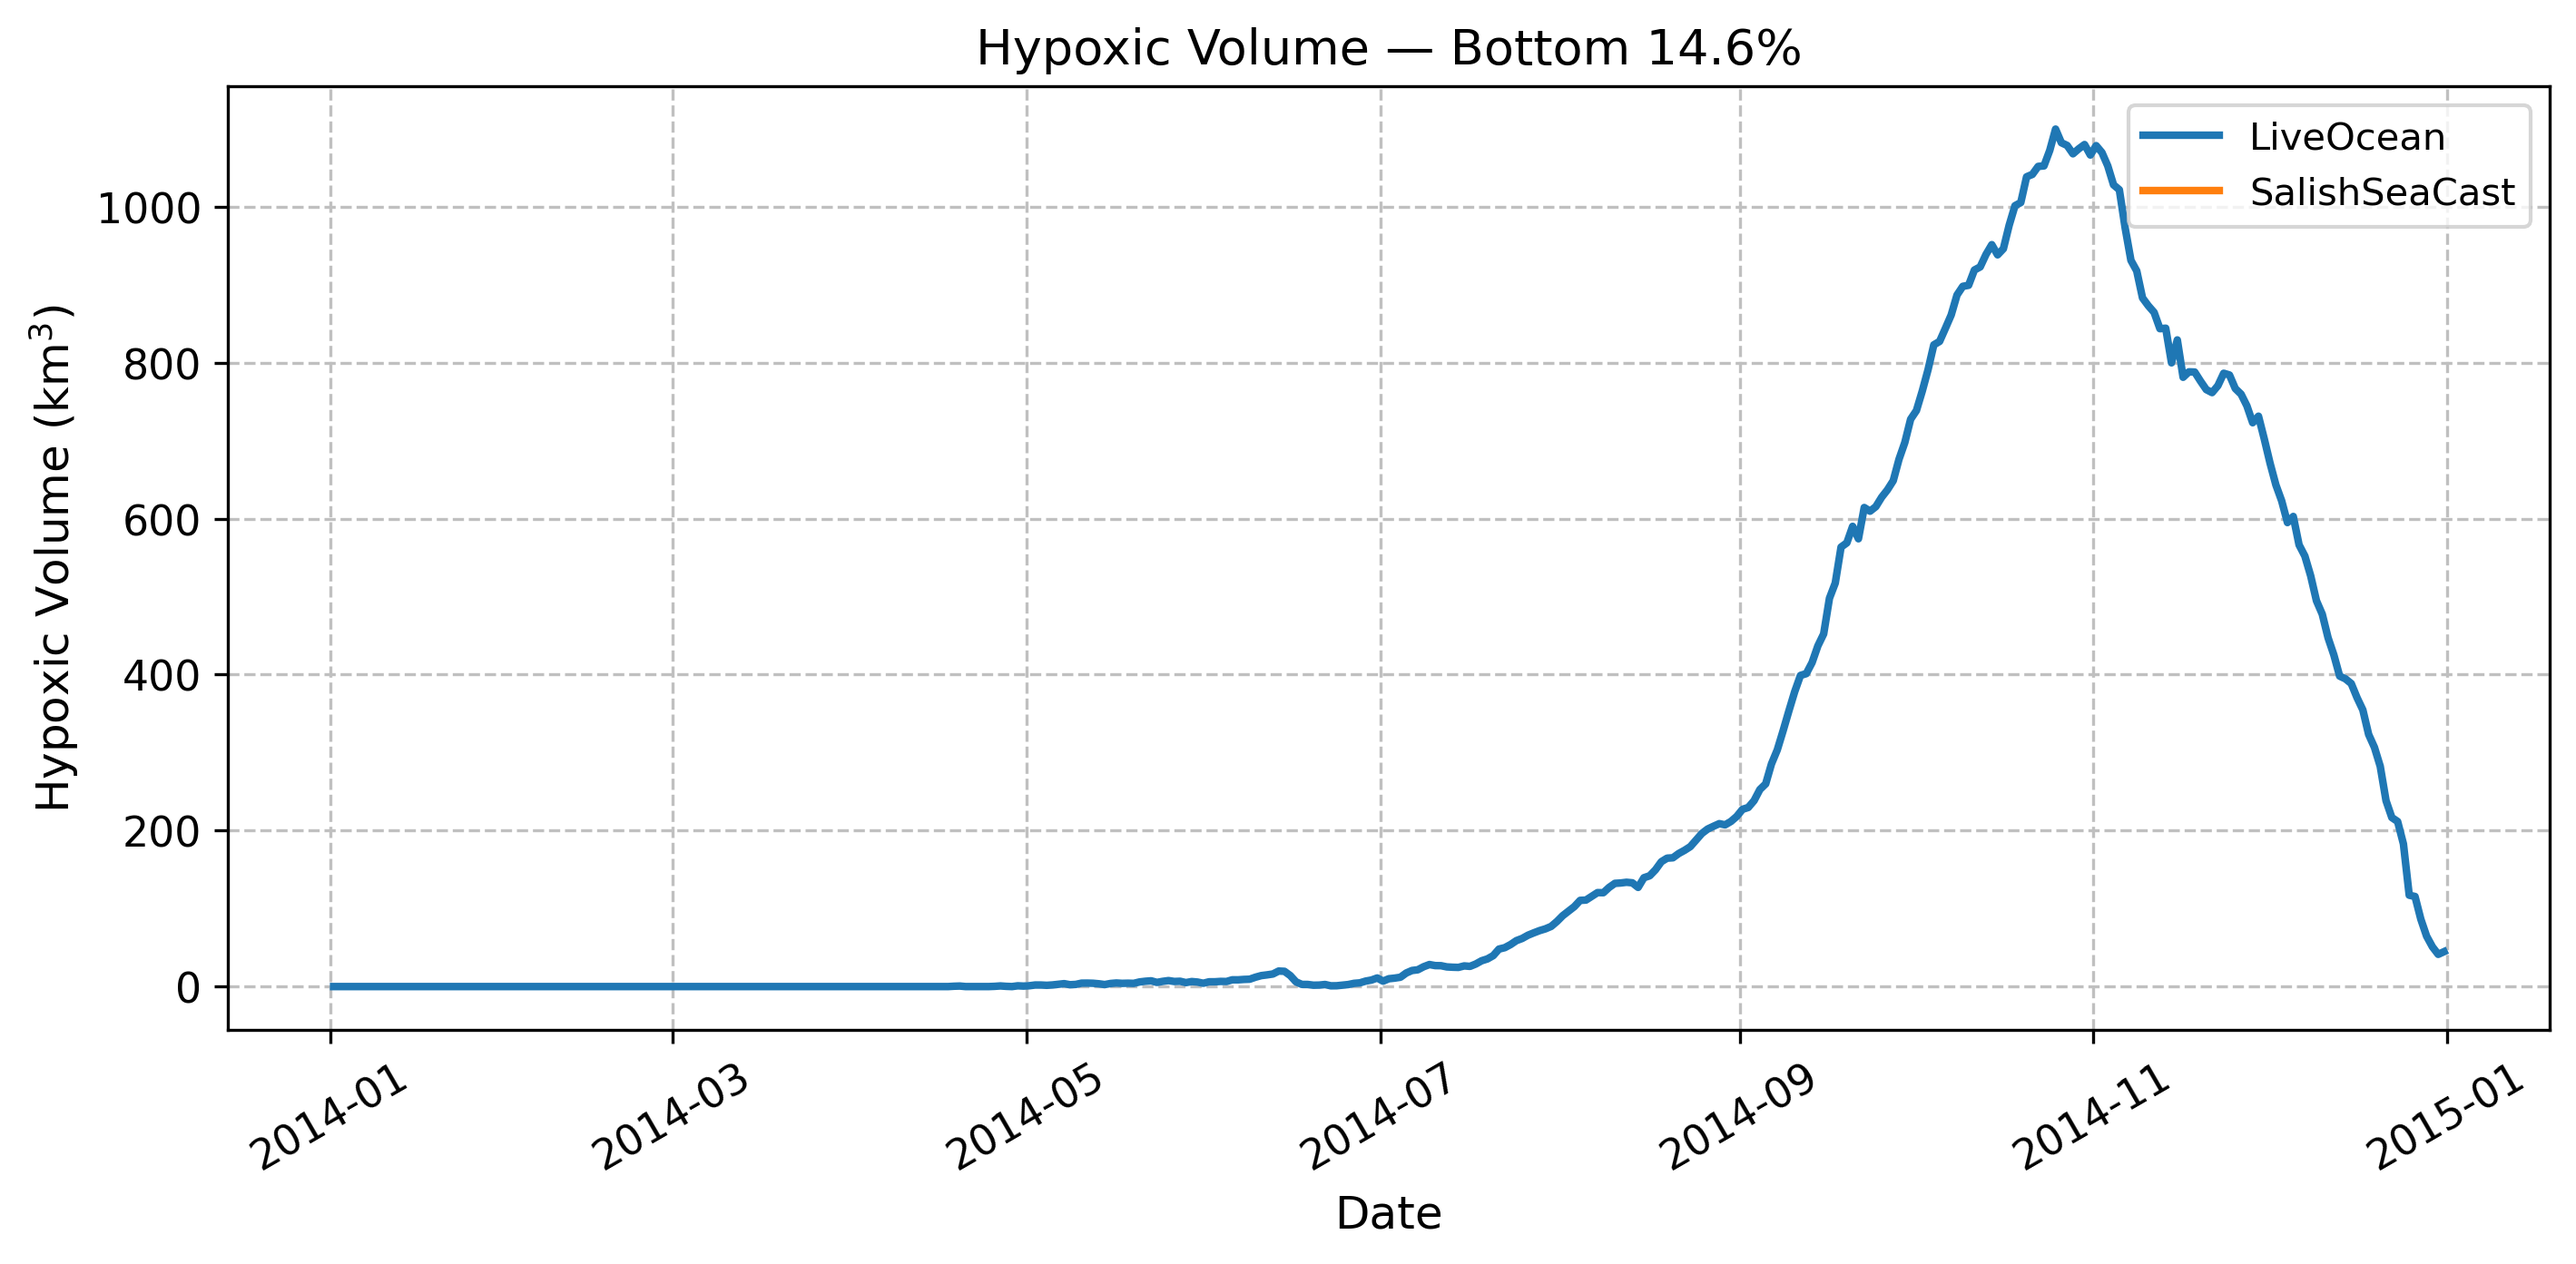
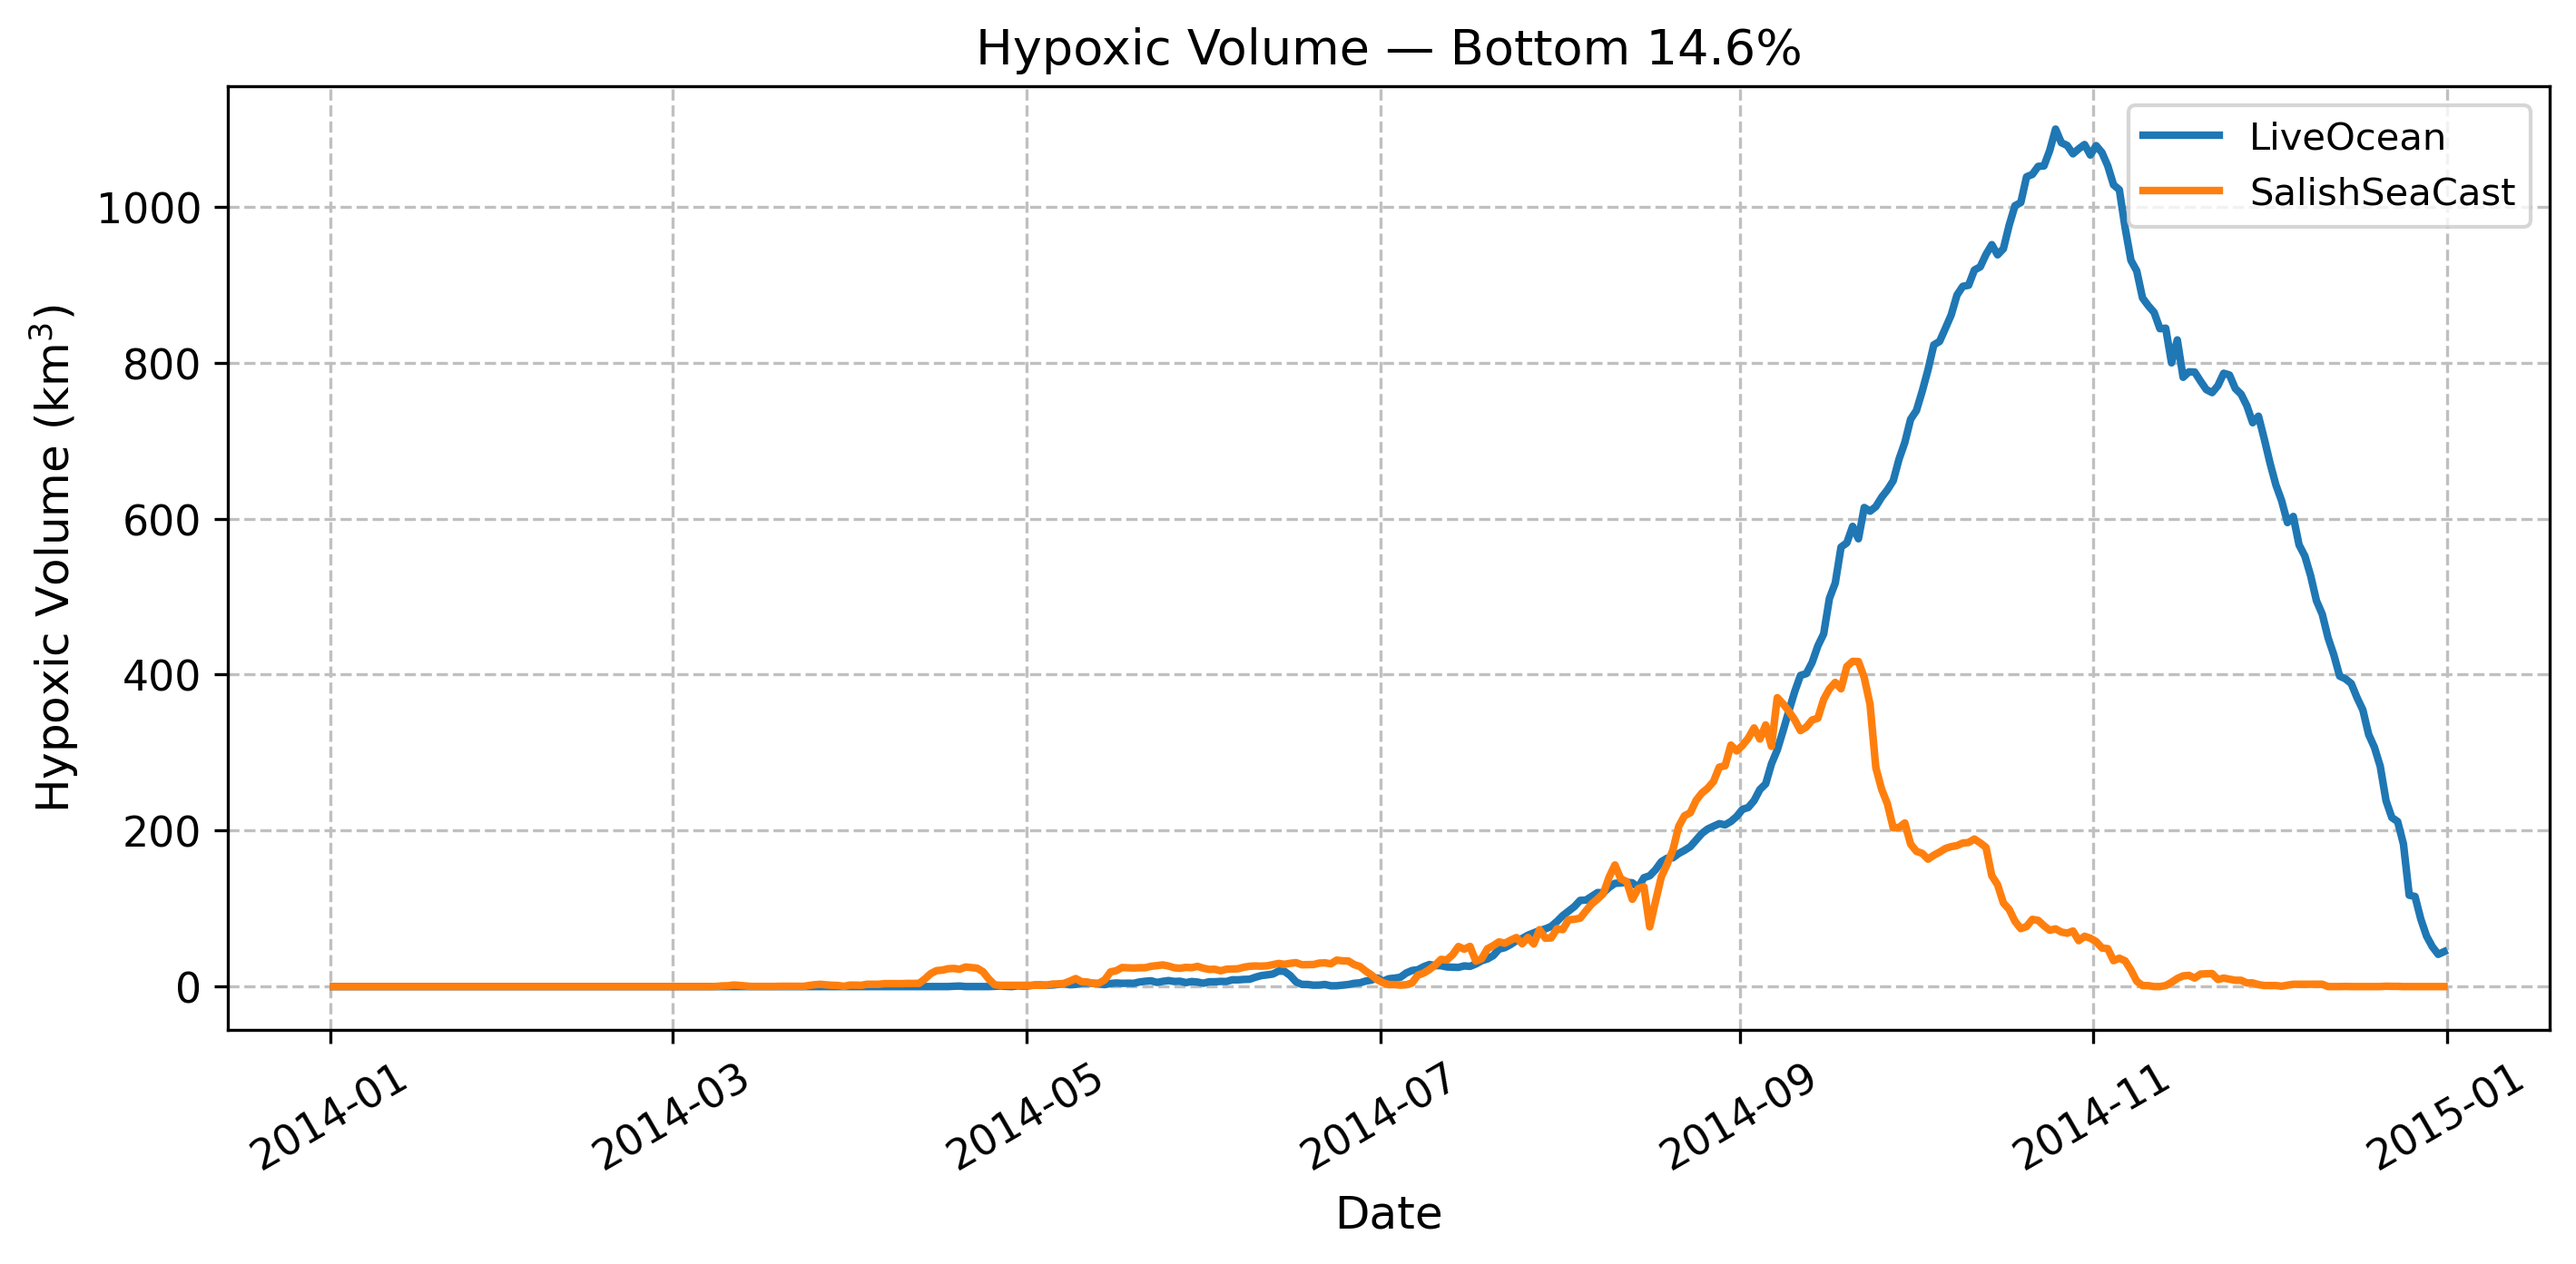
edit bottom_DO_plots.py

diff --git a/intermodel_comparison/bottom_DO/bottom_DO_plots.py b/intermodel_comparison/bottom_DO/bottom_DO_plots.py
@@ -183,7 +183,7 @@ hyp_area_LO_ts = np.sum(
 # hyp_thick = m
 # DA_ps = km2
 # m × km2 = 10^6 m3
-hyp_volume_LO_ts = np.sum(
+hyp_volume_LO_ts = np.nansum(
     hypoxic_LO *
     hyp_thick_LO *
     DA_ps[None, :, :],
@@ -240,12 +240,12 @@ fig, ax = plt.subplots(figsize=(11, 4.5))
 
 ax.plot(
     pd.to_datetime(ds_LO['ocean_time'].values),
-    hyp_area_LO_ts, linewidth=2, label='LiveOcean'
+    hyp_area_LO_ts, linewidth=2, color= 'red', label='LiveOcean'
 )
 
 ax.plot(
     pd.to_datetime(ds_LO['ocean_time'].values),
-    hyp_area_SSC_ts, linewidth=2, label='SalishSeaCast'
+    hyp_area_SSC_ts, linewidth=2, color= 'blue', label='SalishSeaCast'
 )
 
 ax.set_ylabel(
@@ -282,12 +282,12 @@ fig, ax = plt.subplots(figsize=(11, 4.5))
 
 ax.plot(
     pd.to_datetime(ds_LO['ocean_time'].values),
-    hyp_volume_LO_ts, linewidth=2, label='LiveOcean'
+    hyp_volume_LO_ts, linewidth=2, color= 'red', label='LiveOcean'
 )
 
 ax.plot(
     pd.to_datetime(ds_LO['ocean_time'].values),
-    hyp_volume_SSC_ts, linewidth=2, label='SalishSeaCast'
+    hyp_volume_SSC_ts, linewidth=2, color= 'blue', label='SalishSeaCast'
 )
 
 ax.set_ylabel(
